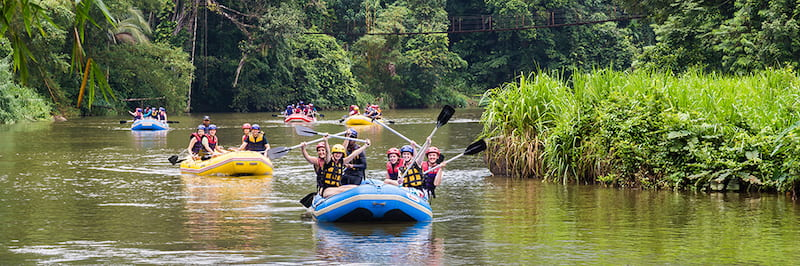
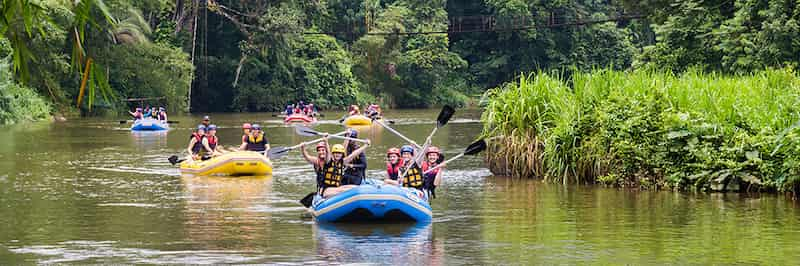
poll html and css documents created

diff --git a/wwr/about.html b/wwr/about.html
@@ -29,7 +29,7 @@
     </header>
     <main>
         <div class="hero">
-            <img src="images/rafting-hero.jpg" alt="hero image rafting">
+            <img src="images/rafting11_1024.jpg" alt="hero image rafting">
             <h1>DRY OAR Whitewater Rafting</h1>
             <article>
                 <img src="images/happy-employee2.webp" alt="Happy employee at work">
@@ -57,19 +57,19 @@
         <section class="figure">
             <h2>Adventure Awaits You!</h2>
             <figure>
-                <img src="images/orange-raft-happy-group.jpg" alt="Orange raft happy group">
+                <img src="images/orange-raft-happy-group.webp" alt="Orange raft happy group">
                 <figcaption>Goodwin Canyon</figcaption>
             </figure>
             <figure>
-                <img src="images/orange-raft.jpg" alt="Yellow raft happy group">
+                <img src="images/orange-raft.webp" alt="Yellow raft happy group">
                 <figcaption>North Fork American</figcaption>
             </figure>
             <figure>
-                <img src="images/striped-raft.jpg" alt="Striped Raft">
+                <img src="images/striped-raft.webp" alt="Striped Raft">
                 <figcaption>Kaweah River</figcaption>
             </figure>
             <figure>
-                <img src="images/yellow-raft.jpg" alt="Yellow raft">
+                <img src="images/yellow-raft.webp" alt="Yellow raft">
                 <figcaption>Merced River</figcaption>
             </figure>
             <figure>
